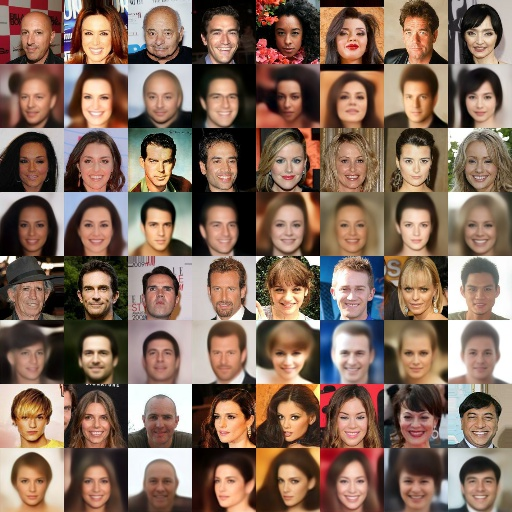
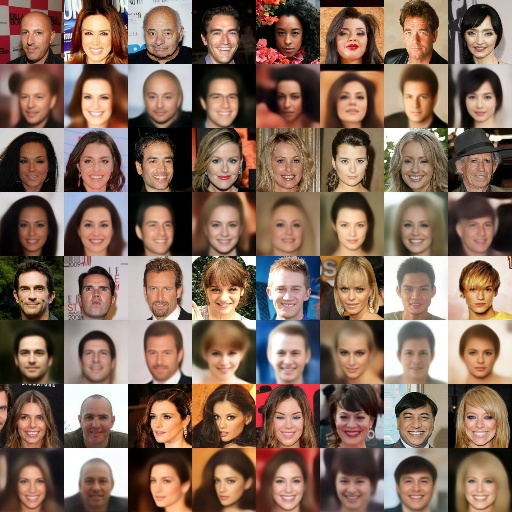
README updates

diff --git a/style_vae/train/test.py b/style_vae/train/test.py
@@ -8,6 +8,8 @@ import tensorflow as tf
 import numpy as np
 from matplotlib import pyplot as plt
 from os import path
+import imageio
+from tqdm import tqdm
 
 # different category:
 from style_vae.model import StyleVae, Config
@@ -23,35 +25,73 @@ def plot_manifold():
     print(f'seed - {seed}')
     np.random.seed(seed)
 
-    gs = 9
+    gs = 8
     trainer, sess = _build_trainer(grid_size=gs)
     model = trainer.get_model()
     code_size = model.config.code_size
     img_dim = model.config.img_dim
 
-    manifold = _generate_manifold_random(code_size, gs)
-    manifold_shape = manifold.shape
+    manifold_0 = _generate_manifold_random(code_size, gs)
+    manifold_1 = _generate_manifold_random(code_size, gs)
+    manifold_shape = manifold_0.shape
 
-    manifold_img = np.empty((gs, gs, img_dim, img_dim, 3))
-    code_ph, decoded = trainer.get_decode_stubs()
-    for i in range(gs):
-        code = manifold[i, :, :]
-        manifold_img[i] = decoded.eval(session=sess, feed_dict={code_ph: code})
+    img_names = []
+    num_frames = 31
+    for t in tqdm(range(num_frames)):
+        s1 = (num_frames-1-t)
+        s2 = t
+        s = np.sqrt(s1**2 + s2**2)
+        manifold = (manifold_0 * s1 + manifold_1 * s2) / s
+        manifold_img = np.empty((gs, gs, img_dim, img_dim, 3))
+        code_ph, decoded = trainer.get_decode_stubs()
+        for i in range(gs):
+            code = manifold[i, :, :]
+            manifold_img[i] = decoded.eval(session=sess, feed_dict={code_ph: code})
+        img = np.empty((gs * img_dim, gs * img_dim, 3))
+        for i in range(manifold_shape[0]):
+            for j in range(manifold_shape[1]):
+                offset_x = i * img_dim
+                offset_y = j * img_dim
+                img[offset_x: offset_x + img_dim, offset_y: offset_y + img_dim] = manifold_img[i, j]
+
+        fname = path.join(OUT, f'grid-{seed}-{t}.jpg')
+        plt.imsave(fname, np.clip(img, 0, 1))
+        img_names.append(fname)
+
+    images = []
+    for fname in img_names:
+        images.append(imageio.imread(fname))
+    images.extend(images[::-1])
+    imageio.mimsave(path.join(OUT, f'interpolation-{seed}.gif'), images)
+
+
+def plot_recon():
+    gs = 8
+    trainer, sess = _build_trainer(grid_size=gs)
+    model = trainer.get_model()
+    img_dim = model.config.img_dim
+    manifold_shape = (gs, gs, img_dim, img_dim, 3)
+    manifold_img = np.empty(manifold_shape)
+    img_tensor, recon_tensor = trainer.get_encode_stubs()
+    for i in range(gs//2):
+        img, recon = sess.run([img_tensor, recon_tensor])
+        manifold_img[i*2] = img
+        manifold_img[i*2+1] = recon
+
     img = np.empty((gs * img_dim, gs * img_dim, 3))
     for i in range(manifold_shape[0]):
         for j in range(manifold_shape[1]):
             offset_x = i * img_dim
             offset_y = j * img_dim
-            img[offset_x: offset_x+img_dim, offset_y: offset_y + img_dim] = manifold_img[i, j]
+            img[offset_x: offset_x + img_dim, offset_y: offset_y + img_dim] = manifold_img[i, j]
 
-    plt.figure(), plt.imshow(img), plt.title('Manifold'), plt.axis('off')
-    plt.savefig(path.join(OUT, f'grid-{seed}.jpg'), dpi=500)
-    plt.show()
+    fname = path.join(OUT, f'recon.jpg')
+    plt.imsave(fname, np.clip(img, 0, 1))
 
 
 def _generate_manifold(code_size: int, grid_size: int) -> np.ndarray:
     vecs = np.random.randn(2, code_size) + 1
-    std = 0.25
+    std = 0.5
     manifold = np.zeros((grid_size, grid_size, code_size))
     s = np.linspace(-std, std, grid_size, endpoint=True)
     xx, yy = np.meshgrid(s, s)
@@ -61,6 +101,7 @@ def _generate_manifold(code_size: int, grid_size: int) -> np.ndarray:
 
     return manifold
 
+
 def _generate_manifold_random(code_size: int, grid_size: int) -> np.ndarray:
     manifold = np.zeros((grid_size, grid_size, code_size))
     for i in range(grid_size):
@@ -68,7 +109,8 @@ def _generate_manifold_random(code_size: int, grid_size: int) -> np.ndarray:
             manifold[i, j] = np.random.randn(1, code_size)
     return manifold
 
-def _build_trainer(reload_model=True, grid_size=11) -> (StyleVaeTrainer, tf.Session):
+
+def _build_trainer(reload_model=True, grid_size=8) -> (StyleVaeTrainer, tf.Session):
     # model
     model_config = Config()
     model_config.batch_size = grid_size
@@ -86,6 +128,7 @@ def _build_trainer(reload_model=True, grid_size=11) -> (StyleVaeTrainer, tf.Sess
     trainer = StyleVaeTrainer(model, trainer_config, sess)
     if reload_model:
         trainer.load()
+        trainer.init_iter()
     else:
         init_op = tf.global_variables_initializer()
         sess.run(init_op)

diff --git a/style_vae/train/style_vae_trainer.py b/style_vae/train/style_vae_trainer.py
@@ -75,7 +75,7 @@ class StyleVaeTrainer(object):
         self._sess = sess
         self._global_step = tf.train.create_global_step()
 
-        self._img_iter_init = None
+        self._iter_init = None
         self._num_train = None
         self._num_val = None
         self._num_test = None
@@ -255,3 +255,10 @@ class StyleVaeTrainer(object):
 
     def get_decode_stubs(self):
         return self._code_ph, self._decoded
+
+    def get_encode_stubs(self):
+        return self._img_ph, self._stub.recon_img
+
+    def init_iter(self):
+        self._sess.run(self._iter_init)
+

diff --git a/style_vae/train/vae_trainer_config.py b/style_vae/train/vae_trainer_config.py
@@ -12,7 +12,7 @@ class VaeTrainerConfig:
     lr: float = 2e-5
     recon_loss: str = 'perceptual'
     latent_weight: float = 2.
-    data_regex: str = path.join('/data', 'ffhq_256', '*.png')
+    data_regex: str = path.join('/data', 'svae', '*.jpg')
 
     def __str__(self):
         res = 'VaeTrainerConfig:\n'

diff --git a/README.md b/README.md
@@ -20,7 +20,7 @@ The loss is comprised out of two components:
 
 ## Reconstruction Results
 
-    ![recon](style_vae/doc/recon.png)
+   ![recon](style_vae/doc/recon.jpg)
 
 ## Random Sample Results
 
@@ -49,12 +49,22 @@ The loss is comprised out of two components:
   * All data should be saved under `/data/svae/*.png`
   
 ## Training Curves
+![curve](style_vae/doc/curve.png)
 
-### Train
+## Test
+Test results can be seen in the visuals part
 
-### Validation
-
-### Test
-test results can be seen in the visuals part
+## Additional Experiments
+We used the provided model to train on the FFHQ dataset to produce a 256x256 results:
+![64-256](style_vae/doc/64-256.png)
  
-  
+## Future Work
+* **Adversarial Training**- Adding an adversarial term to improve generation of hair and fine details (hair)
+ and background especially in the high resulotion models
+* **Weighted KL-Divergence**- The hierarchical structure of the code injection would allow weighted
+ KL-divergence loss term where we allow the VAE encoder to different divergence fine/coarse features. 
+ This flexibility makes sense perhaps because fine details like hairs are more normally distributed,
+ while coarse feature behave differently (not many dark skin red heads i.e.) 
+
+## Trained Models
+Available soon... 
